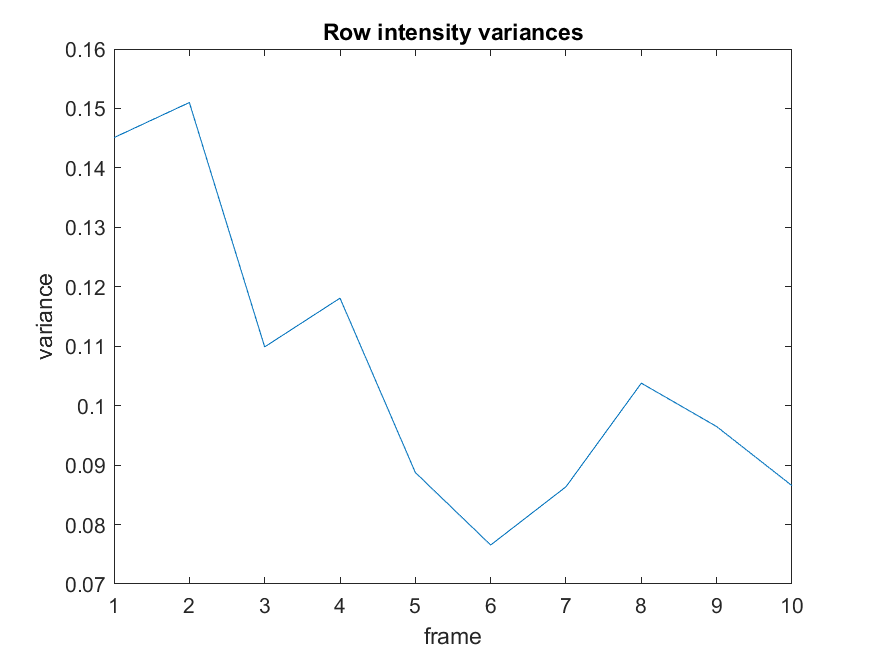
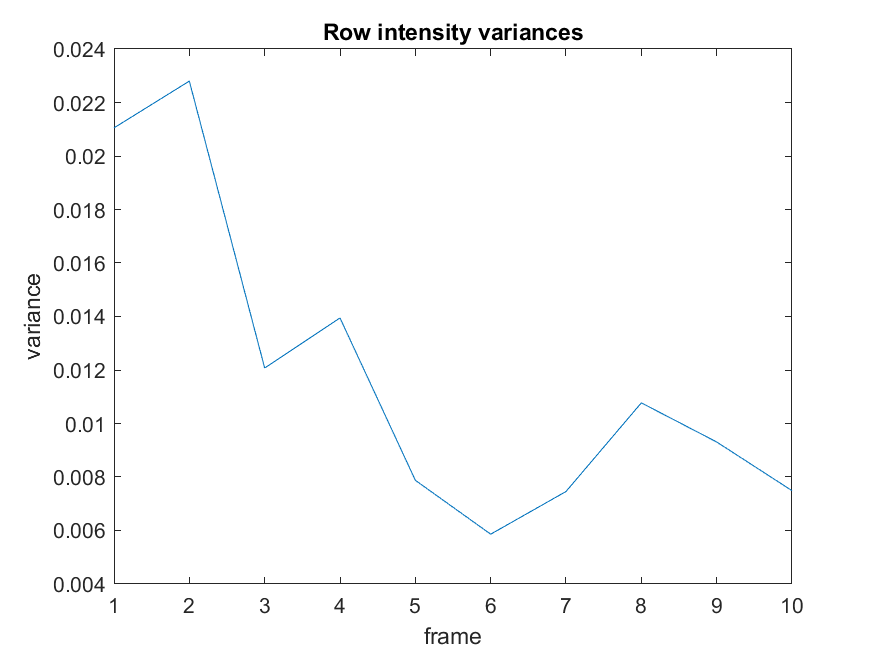
added stdev plot

diff --git a/GetColorDistribution.m b/GetColorDistribution.m
@@ -3,6 +3,7 @@ currPath = "C:\Users\cfg9740\Documents\Northwestern\EA3\Demo2\images\";
 img = "cropped_";
 % iterate over 10 cropped images
 imgCount = 10;
+stdevs = zeros(1, imgCount);
 variances = zeros(1, imgCount);
 for i = 1 : imgCount
     image = imread(currPath + img + i + '.png');
@@ -23,7 +24,8 @@ for i = 1 : imgCount
     row = grayImage(250,:);
     % stdev is the square root of variance
     stdev = std(row, 1);
-    variances(i) = stdev;
+    stdevs(i) = stdev;
+    variances(i) = stdev.^2;
 end
 
 % plotting
@@ -34,3 +36,12 @@ ylabel('variance');
 
 % save plot as a png
 saveas(fig, currPath + 'variancesplot.png')
+
+% plotting
+fig = plot(stdevs);
+title('Row intensity stdevs');
+xlabel('frame');
+ylabel('stdev');
+
+% save plot as a png
+saveas(fig, currPath + 'stdevsplot.png')
